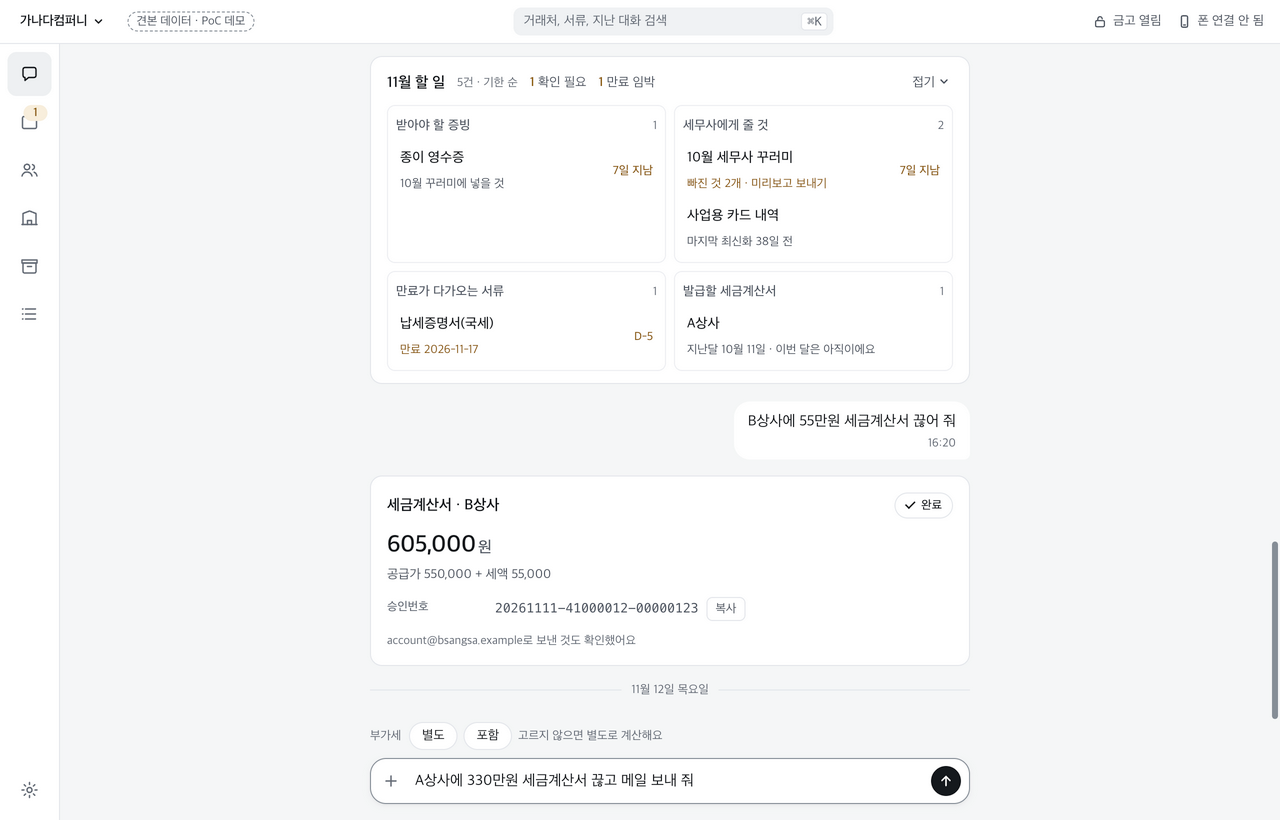
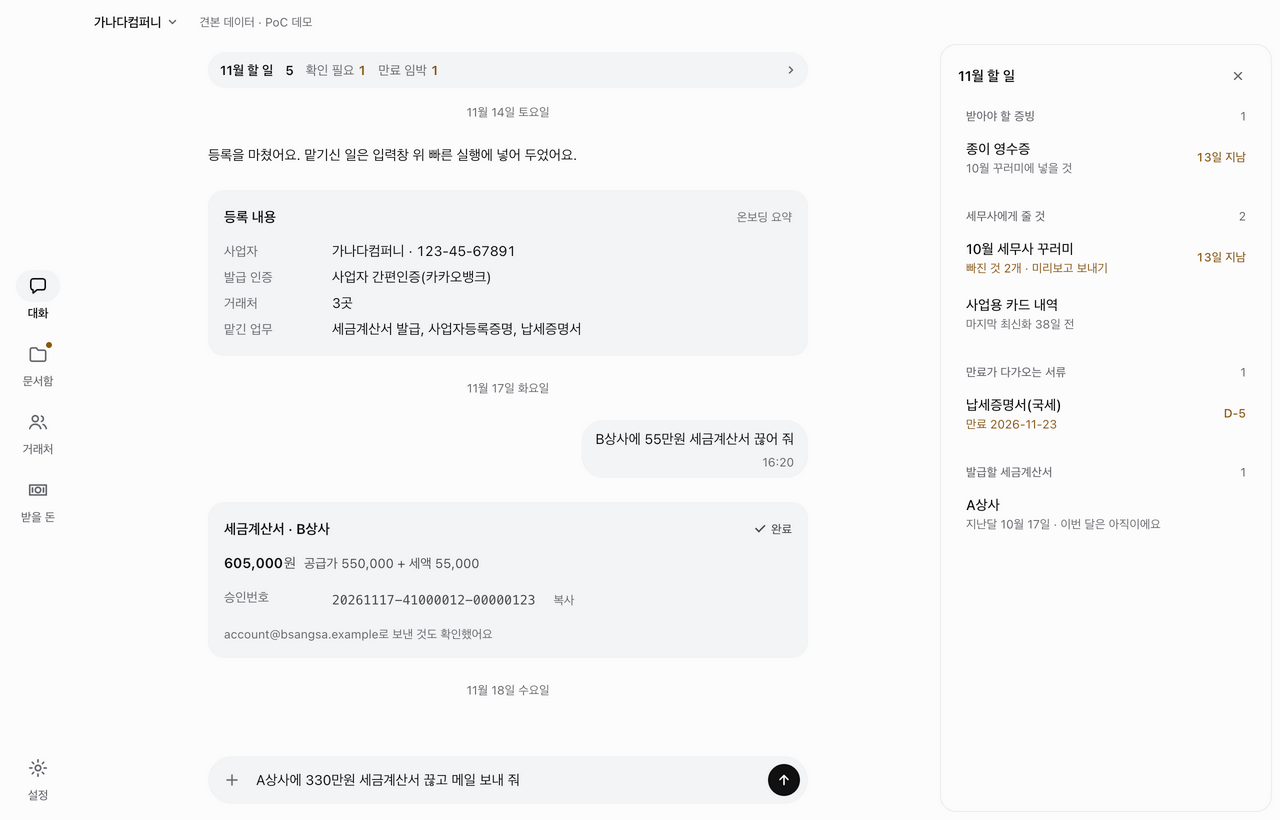
문구 검토 반영(메일 보낸 것 확인, 다시 보는 중 문장, 온보딩 첫마디), 디자인 시스템 v2.1 기록, 작업 노트 K-21

diff --git a/poc/apps/desktop/src/shell-runs.ts b/poc/apps/desktop/src/shell-runs.ts
@@ -16,14 +16,14 @@ import { issueDateRule } from '@sax/engine';
 /** 발급 뒤 확인(발급목록 조회)은 몇 분 걸린다. 카드가 멈춘 것처럼 보이지 않게 지금 하는 일과 걸리는 시간을 같이 말한다. */
 export const VERIFY_NOW = '홈택스 발급 목록에서 방금 건을 찾고 있어요. 1~2분 걸릴 수 있어요';
 /** 조회를 되풀이할 때(엔진 attempt). 횟수 대신 "다시 보고 있어요"로 말한다. */
-export const verifyNow = (attempt?: number) => (attempt && attempt > 1 ? `홈택스가 늦게 보여 줘서 발급 목록을 다시 보고 있어요(${attempt}번째)` : VERIFY_NOW);
+export const verifyNow = (attempt?: number) => (attempt && attempt > 1 ? `홈택스 반영이 늦어 발급 목록을 다시 보고 있어요(${attempt}번째)` : VERIFY_NOW);
 
 const PHASES = ['login', 'form', 'input', 'readback', 'gate', 'sign', 'verify', 'mail'] as const;
 type Phase = (typeof PHASES)[number];
 /** 서류별 단계 이름(엔진 단계 순서 PHASES). 민원증명은 메일 단계가 없고, 승인 뒤가 서명이 아니라 발급(제출)이다. */
 // 사장님이 쓰는 말로(대표 피드백 2026-11-18 4번: "개발용어처럼 너무 딱딱"). 엔진 말(되읽기·건별발급·발급목록 조회)은 화면에 내지 않는다.
 export const STEP_LABELS: Readonly<Record<RunView['doc'], readonly string[]>> = {
-  'H-01': ['홈택스 로그인', '세금계산서 화면 열기', '내용 넣기', '넣은 내용 확인', '사장님 승인', '인증서로 서명', '발급됐는지 확인', '메일 간 것 확인'],
+  'H-01': ['홈택스 로그인', '세금계산서 화면 열기', '내용 넣기', '넣은 내용 확인', '사장님 승인', '인증서로 서명', '발급됐는지 확인', '메일 보낸 것 확인'],
   cert: ['홈택스 로그인', '신청 화면 열기', '신청 내용 넣기', '넣은 내용 확인', '사장님 승인', '발급 신청', '발급됐는지 확인'],
 };
 /**

diff --git a/poc/apps/desktop/static/shell/shell-views.js b/poc/apps/desktop/static/shell/shell-views.js
@@ -182,7 +182,7 @@ const STEP_GROUPS = [
   ['내용 넣고 확인', [2, 3]],
   ['사장님 승인', [4]],
   ['서명하고 발급 확인', [5, 6]],
-  ['메일 간 것 확인', [7]],
+  ['메일 보낸 것 확인', [7]],
 ];
 /** 민원증명 단계 묶음(엔진 단계 7개, 메일 없음, shell-runs STEP_LABELS.cert). */
 const CERT_STEP_GROUPS = [
@@ -311,7 +311,7 @@ const certLine = (run) => h('div', { class: 'sx-meta', 'data-cert-inputs': '' },
 const showBrowserBtn = (run, act, primary = false) => btn('홈택스 창 보기', () => act.showBrowser(run.id), primary ? 'sx-btn-primary' : '', { 'data-act': 'show-browser' });
 
 /** 발급 뒤 확인 중 한 줄(main shell-runs verifyNow와 같은 말). */
-const verifyLine = (n) => (n && n > 1 ? `홈택스가 늦게 보여 줘서 발급 목록을 다시 보고 있어요(${n}번째)` : '홈택스 발급 목록에서 방금 건을 찾고 있어요. 1~2분 걸릴 수 있어요');
+const verifyLine = (n) => (n && n > 1 ? `홈택스 반영이 늦어 발급 목록을 다시 보고 있어요(${n}번째)` : '홈택스 발급 목록에서 방금 건을 찾고 있어요. 1~2분 걸릴 수 있어요');
 /** 지금 단계 한 줄: 지금 하는 일 문장(main이 단계 메모로 준다)이 있으면 그 문장, 없으면 단계 이름. 할 일 줄이 같은 말을 하면 이름만(withNote false). */
 const stepLine = (now, withNote = true) => (now ? (withNote && now.note ? now.note : now.label) : '');
 /** 진행 막대(묶음 n/전체): 몇 분 걸리는 실행이 어디쯤인지 한눈에. 색은 무채(파랑은 차례·승인에만). */

diff --git a/poc/tests/desktop-phone-issue.test.ts b/poc/tests/desktop-phone-issue.test.ts
@@ -32,7 +32,7 @@ const tmp = async () => {
 const NOW = Date.parse('2026-11-17T01:00:00Z');
 const TODAY = kstToday(NOW);
 const CP: Counterparty = { id: 'cp_12', name: '가나식자재', bizNo: '2110987654', rep: '김가나', email: 'tax@ganafood.example', item: '식자재', status: '정상', checkedOn: '2026-11-01', lastIssuedOn: '2026-10-31' };
-const STEP_LABELS = ['홈택스 로그인', '세금계산서 화면 열기', '내용 넣기', '넣은 내용 확인', '사장님 승인', '인증서로 서명', '발급됐는지 확인', '메일 간 것 확인'];
+const STEP_LABELS = ['홈택스 로그인', '세금계산서 화면 열기', '내용 넣기', '넣은 내용 확인', '사장님 승인', '인증서로 서명', '발급됐는지 확인', '메일 보낸 것 확인'];
 
 function run(over: Partial<RunView> & { at?: number } = {}): RunView {
   const at = over.at ?? -1;

diff --git a/poc/apps/desktop/static/shell/shell-onboarding.js b/poc/apps/desktop/static/shell/shell-onboarding.js
@@ -7,7 +7,7 @@ import { bizDigits, bizNoInput, checkFields, emailInput, field, keys, LIMITS, te
 
 const Q = {
   terms: '시작하기 전에 약관과 AI 모델 이용을 한 번 확인해 주세요.',
-  welcome: '반가워요. 세금계산서 발급을 맡아 드릴게요. 몇 가지만 여쭤볼게요. 먼저 사업자부터 확인해요.',
+  welcome: '반가워요. 세금계산서 발급을 맡아 드릴게요. 먼저 사업자부터 확인할게요.',
   'biz-number': '상호와 사업자번호를 알려 주세요. 홈택스에 등록된 것과 같아야 해요.',
   'biz-confirm': '이렇게 등록할게요. 맞는지 봐 주세요.',
   auth: '홈택스 로그인과 서명에 쓸 인증서를 골라 주세요. 비밀번호는 첫 발급 때 한 번만 여쭤봐요.',

diff --git a/sovereign-ax/design-system/README.md b/sovereign-ax/design-system/README.md
@@ -49,7 +49,7 @@
 - **같은 내용을 두 번 그리지 않는다.**
   - 작성 카드가 대화에 있으면 작업 패널을 저절로 열지 않는다. 패널은 카드를 누르거나, 실행이 시작되거나(앱 안 브라우저), 승인 대기·확인 필요일 때 연다.
   - 이번 달 할 일은 대화 맨 위 한 줄이다. 누르면 패널에 목록이 열린다. 대화를 가리는 판을 두지 않는다.
-  - 실행 중 카드는 머리 한 줄(제목 · 지금 단계 · 칩 · 조용한 [중지])이다. 사람 차례·확인 필요일 때만 할 일 한 줄과 주요 단추 하나를 붙인다. 금액·단계·값은 패널에만 있다. 핸드오프 띠는 카드가 화면 밖일 때만 뜬다.
+  - 실행 중 카드는 머리 한 줄(제목 · 칩 · 조용한 [중지]) + 지금 하는 일 한 문장 + 진행 막대다(v2.1). 사람 차례·확인 필요일 때만 할 일 한 줄과 주요 단추 하나를 붙인다. 금액·단계·값은 패널에만 있다. 핸드오프 띠는 카드가 화면 밖일 때만 뜬다.
 - **주의·안내 면(`sx-note`).** 2026-11-16 온보딩 인증서 카드 지적에서 더했다.
   - 한 카드·패널에 주의 면(`is-attention`)은 하나다. 문장이 여럿이면 한 면 안의 줄로 모은다(`noteGroup`). 원인이 이어지면(보안 프로그램 없음 → 인증서도 못 읽음) 먼저 풀 것 하나만 보이고, 풀리면 다음 것을 보인다.
   - 모양은 아이콘 · 제목(13/600) · 본문(13) · 단추 줄이다. 아이콘은 주의면 경고, 안내면 정보다.
@@ -135,6 +135,13 @@
 - 버튼: "승인하고 발급", "다시 조회", "브라우저로 가기" ("확인", "다음" 아님)
 
 ## 변경 기록
+
+### v2.1 (2026-11-18) · 영역 경계와 진행 한 문장(대표 피드백 4·6·8번)
+- 옆 패널은 바탕 위 한 장이다. `canvas` 면 + `line` 머리카락 선 + `radius-lg`, 창 가장자리에서 8 띄운다. 그림자는 쓰지 않는다. 대화 열과 패널이 한 면에 붙어 대화 스크롤바가 경계처럼 보이던 것을 없앴다(대표 "영역 경계가 없어서 오히려 어지럽다").
+- 실행 중 카드: 머리(제목 · 칩 · [중지]) 아래에 지금 하는 일 한 문장(13 ink-2)과 진행 막대(2px, 무채, 내 차례면 accent). 금액·메모를 '·'로 이어 붙여 말줄임으로 잘리던 한 줄을 나눴다.
+- 앱 안 브라우저: 머리 한 줄(자물쇠 · 사이트 이름 · 상태 점 · [크게])로 줄였다. 원문 주소 줄과 탭 알약을 지웠다(주소는 title에만). 아래 실행 상세(값 9줄·단계 목록)는 진행 한 덩어리(제목 · 칩 · [자세히] · 지금 하는 일 · 진행 막대)로 접고 [자세히]로 펼친다.
+- 답 후보 줄(`sx-replies`)은 대화 열 전폭이다(폭 440 제한을 없앴다. "전폭 줄" 규칙과 맞춘다).
+- 단계 이름은 사장님 말이다: 홈택스 로그인 · 세금계산서 화면 열기 · 내용 넣기 · 넣은 내용 확인 · 사장님 승인 · 인증서로 서명 · 발급됐는지 확인 · 메일 보낸 것 확인.
 
 ### v2.0 (2026-11-14) · Muse 기준으로 갈아엎음
 - 토큰 값을 Muse(com.meta.endo 11.1)의 회색 단계에 맞췄다. 이름은 그대로 두었다. 승인 카드 대비 쌍 5개는 두 테마 모두 4.5:1 이상이다(계산).

diff --git a/sovereign-ax/handover/working-notes.md b/sovereign-ax/handover/working-notes.md
@@ -47,6 +47,9 @@
   - 할 일 없는 막다른 화면이 없다. 멈추면 무엇이 필요한지와 다음 행동([다시 시도], [다시 준비])을 준다.
   - 앱이 하는 일을 사람에게 시키는 문구를 쓰지 않는다(예: 앱이 로그인하는데 "직접 로그인해 주세요").
   - 어색한 줄바꿈이 없게 문구를 짧게.
+  - 미니멀해도 영역 경계를 없애지 않는다. 대화 열과 옆 패널처럼 성격이 다른 영역은 면이나 머리카락 선(`line`) 하나로 나눈다. [K-21]
+  - 몇 초 넘게 걸리는 일은 앱이 지금 하는 일을 현재형 한 문장으로 보인다("홈택스 발급 목록에서 방금 건을 찾고 있어요. 1~2분 걸릴 수 있어요"). 엔진 단계 이름(되읽기·건별발급·발급목록 조회)은 화면에 내지 않는다. [K-21]
+  - 대화 문장은 모델 머리말만이 아니라 엔진·main이 직접 쓰는 고정 문장(`packages/engine/src/chat-agent.ts` CHAT_AGENT_*_TEXT 등)에서 대부분 나온다. 말투를 고칠 때 둘 다 본다. [K-21]
 - 화면·문구·레이아웃 일은 맥북에서 미리보기를 띄워 전후 캡처로 확인한다(4절).
 
 ### 1.6 운영 설정을 바꾸면 한 번에 설명한다
@@ -87,6 +90,7 @@
 | K-18 | 11-16 | 맥북 작업이 덮개를 닫으면 멈춘다는 걸 미리 알리지 않음 | "나 노트북 닫으면 멈추나?" 질문 | 3절 |
 | K-19 | 11-17 | 새 PC 연결이 실기기에서 "연결하는 중"으로 멈춤. 금고가 계정 열쇠를 봉인할 때 Electron에 없는 암호 이름(chacha20-poly1305)을 불렀고, Node에서 도는 시험은 모두 통과했음. 실패 이유도 로그에 남지 않았음 | 깨끗한 맥 두 대로 직접 시험하다 발견해 알림 | 1.4 |
 | K-20 | 11-17 | 시험 계정 삭제를 맥북 세션에 전했는데, 대표가 직접 한 지시가 아니라며 권한 검사가 막아 늦어짐 | "계정부터 빨리 좀..", 같은 삭제 문장을 두 번 씀 | 1.2 |
+| K-21 | 11-18 | PC 채팅에서 단계가 엔진 말이고 진행이 안 보였음. 말투가 딱딱하고 온보딩이 매끄럽지 않았음. 미니멀하려고 영역 경계를 없애 어지러웠고, 앱 안 브라우저 아래 실행 상세가 지저분했음 | 대표 피드백 4·6·8번, "영역 디바이딩과 인앱브라우저 하단이 지저분", "사용자친화적인 대화 경험과 writing까지" | 1.5 |
 
 ## 3. 맥북 원격 작업 사전 점검 (한 메시지로)
 
